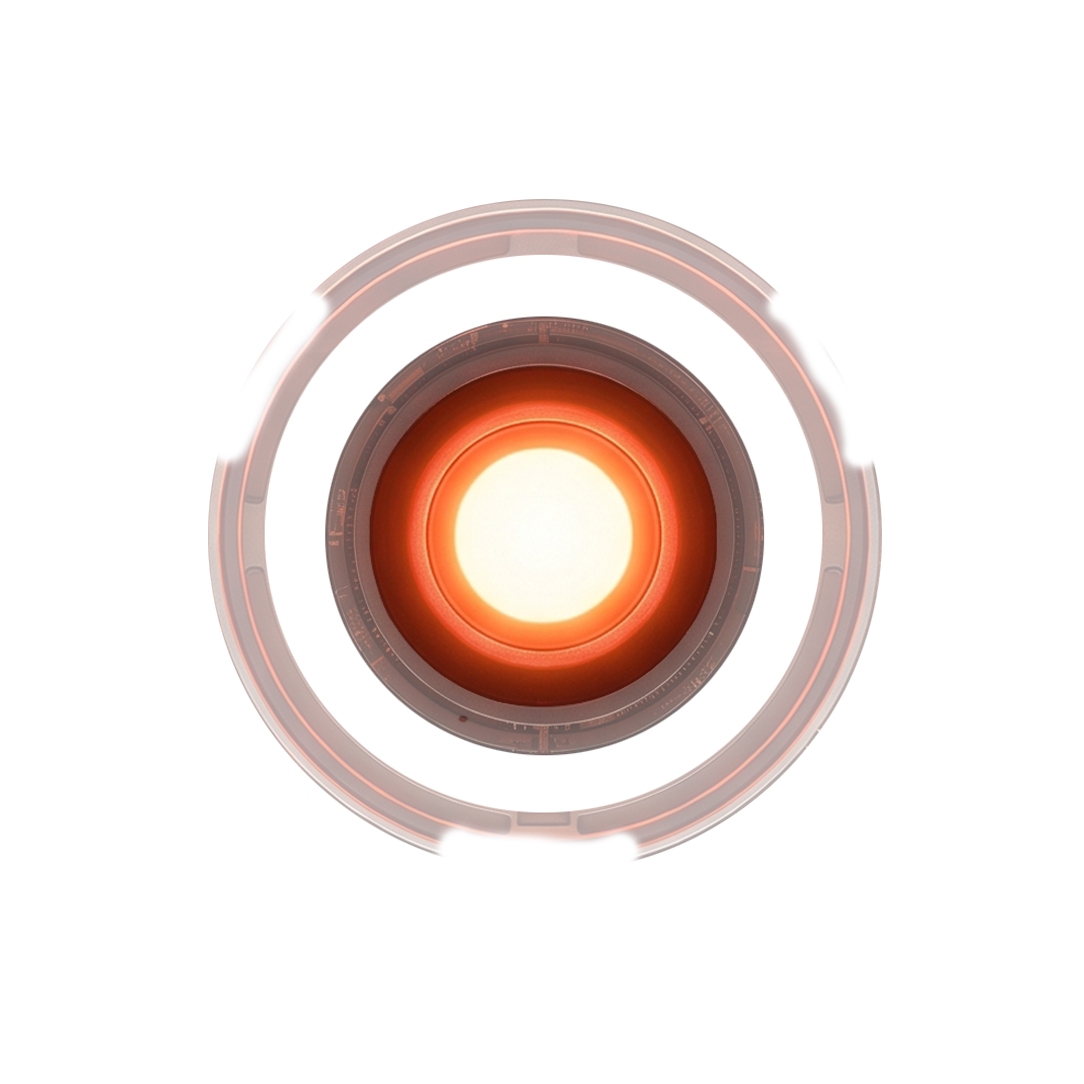
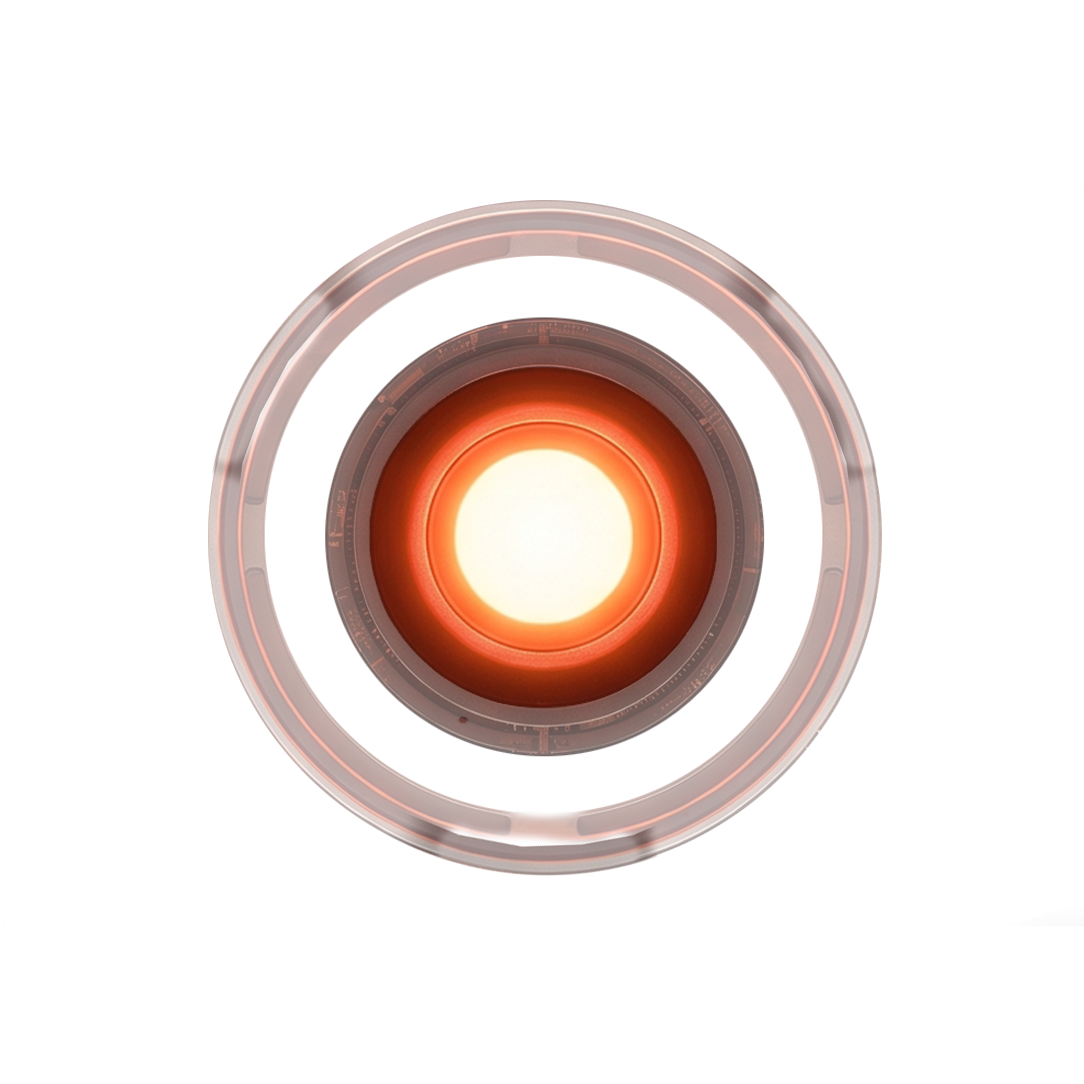
feat: calibrate 4-LED grace oscillation between 100% and 70% with updated faceplate artwork

diff --git a/frontend/dist/assets/index-C7wIaN-H.js b/frontend/dist/assets/index-C7wIaN-H.js
@@ -1,0 +1,1 @@
[1 lines of base64/hex data omitted]

diff --git a/frontend/dist/assets/index-BwKdOfyu.css b/frontend/dist/assets/index-BwKdOfyu.css
@@ -1,0 +1,1 @@
+:root{--bg-color: #000000;--text-color: #e0e0e0;--accent-red: #ff2200;--hal-core-yellow: #ffee55;--hal-glow-red: #e60000}*{box-sizing:border-box;margin:0;padding:0;-webkit-touch-callout:none;-webkit-user-select:none;user-select:none}html,body{width:100vw;height:100vh;height:100dvh;overflow:hidden;background-color:var(--bg-color);color:var(--text-color);font-family:-apple-system,BlinkMacSystemFont,SF Pro Display,Segoe UI,Roboto,Helvetica,Arial,sans-serif;position:fixed}#app{width:100%;height:100%;position:relative;display:flex;justify-content:center;align-items:center;background-color:#000}#hal-stage{width:100%;height:100%;display:flex;justify-content:center;align-items:center;position:relative;overflow:hidden;touch-action:manipulation}#hal-container{position:relative;display:flex;justify-content:center;align-items:center;width:100vw;height:100vh;transform:translateY(-146.67px)}#hal-2026-assembly{position:absolute;top:50%;left:50%;transform:translate(-50%,-50%);width:min(89.65vw,55.5vh);height:min(89.65vw,55.5vh);display:flex;justify-content:center;align-items:center;pointer-events:none}.hal2026-layer{position:absolute;top:0;left:0;width:100%;height:100%;object-fit:contain;pointer-events:none;will-change:opacity;transform:translateZ(0)}#layer-everything-off{z-index:1;opacity:1;transition:opacity .35s ease-out}#layer-3-led-on{z-index:2;opacity:0;transition:opacity .15s ease-out}#layer-3-led-on.led-anim-chuckle,#layer-3-led-on.led-anim-laugh{animation:anim-led-chuckle .7s cubic-bezier(.25,1,.5,1) forwards}#layer-3-led-on.led-anim-wink{animation:anim-led-wink .4s ease-out forwards}#layer-3-led-on.led-anim-ponder,#layer-3-led-on.led-anim-breathe{animation:anim-led-breathe 1.8s ease-in-out forwards}#layer-3-led-on.led-anim-warm{animation:anim-led-warm 2.4s ease-in-out forwards}#layer-3-led-on.led-anim-alert{animation:anim-led-alert .5s ease-out forwards}#layer-3-led-on.led-anim-heartbeat{animation:anim-led-heartbeat .9s ease-out forwards}#layer-3-led-on.led-anim-listen-done{animation:anim-led-listen-done .4s ease-out forwards}#layer-3-led-on.led-anim-search{animation:anim-led-search 1.6s ease-in-out forwards}#layer-3-led-on.led-anim-api{animation:anim-led-api .55s ease-out forwards}#layer-3-led-on.led-anim-grace{transition:none!important;animation:anim-led-grace 20s cubic-bezier(.45,.05,.55,.95) forwards}@keyframes anim-led-grace{0%{opacity:0}5%{opacity:.7}15%{opacity:1}30%{opacity:.7}45%{opacity:1}60%{opacity:.7}75%{opacity:1}90%{opacity:.7}to{opacity:0}}@keyframes anim-led-listen-done{0%{opacity:0}25%{opacity:1}45%{opacity:.15}70%{opacity:1}to{opacity:var(--persistent-led, 0)}}@keyframes anim-led-search{0%{opacity:.1}25%{opacity:.95}50%{opacity:.2}75%{opacity:.95}to{opacity:var(--persistent-led, 0)}}@keyframes anim-led-api{0%{opacity:0}15%{opacity:1}30%{opacity:.1}45%{opacity:1}60%{opacity:.1}75%{opacity:1}90%{opacity:.1}to{opacity:var(--persistent-led, 0)}}@keyframes anim-led-chuckle{0%{opacity:0}18%{opacity:1}32%{opacity:.15}50%{opacity:1}68%{opacity:.2}82%{opacity:.9}to{opacity:var(--persistent-led, 0)}}@keyframes anim-led-wink{0%{opacity:0}30%{opacity:1}70%{opacity:1}to{opacity:var(--persistent-led, 0)}}@keyframes anim-led-breathe{0%{opacity:.1}45%{opacity:1}to{opacity:var(--persistent-led, 0)}}@keyframes anim-led-warm{0%{opacity:0}15%{opacity:.5}85%{opacity:.5}to{opacity:var(--persistent-led, 0)}}@keyframes anim-led-alert{0%{opacity:0}20%{opacity:1}35%{opacity:0}55%{opacity:1}70%{opacity:0}to{opacity:var(--persistent-led, 0)}}@keyframes anim-led-heartbeat{0%{opacity:.1}22%{opacity:1}38%{opacity:.2}55%{opacity:.85}75%{opacity:.1}to{opacity:var(--persistent-led, 0)}}#layer-center-on{z-index:3;opacity:1;transition:opacity .08s ease-out}#layer-center-on.eye-waking{animation:anim-eye-wake-ignite 2.5s ease-out forwards!important}@keyframes anim-eye-wake-ignite{0%{opacity:1;filter:drop-shadow(0 0 20px rgba(255,30,0,1)) brightness(1.3)}20%{opacity:.85;filter:drop-shadow(0 0 10px rgba(255,20,0,.7)) brightness(1.1)}60%{opacity:.95;filter:drop-shadow(0 0 8px rgba(255,10,0,.6))}to{opacity:1;filter:drop-shadow(0 0 4px rgba(255,0,0,.4))}}body.state-thinking #layer-center-on:not(.eye-waking){animation:anim-eye-thinking 1.8s ease-in-out infinite}@keyframes anim-eye-thinking{0%,to{opacity:.82;filter:drop-shadow(0 0 4px rgba(255,0,0,.35))}50%{opacity:1;filter:drop-shadow(0 0 12px rgba(255,30,0,.8)) brightness(1.15)}}#layer-ring-on{z-index:4;opacity:0;transition:opacity .08s ease-out}body.mode-enclosure #hal-container,body.mode-enclosure #hal-2026-assembly,body.mode-enclosure #hal-stage{border:none!important;outline:none!important;box-shadow:none}#init-overlay{position:fixed;top:0;left:0;width:100vw;height:100vh;height:100dvh;background-color:#000000d6;-webkit-backdrop-filter:blur(12px);backdrop-filter:blur(12px);z-index:99999;display:flex;justify-content:center;align-items:center;cursor:pointer;-webkit-tap-highlight-color:transparent;transition:opacity .4s ease-out}#init-overlay.fade-out{opacity:0;pointer-events:none}.init-modal-card{position:relative;transform:translateY(-100px);display:flex;flex-direction:column;align-items:center;text-align:center;background:#0e0e12eb;border:1px solid rgba(255,34,0,.4);box-shadow:0 0 35px #ff220047,inset 0 0 20px #ff220014;border-radius:20px;padding:34px 26px;max-width:86vw;width:330px;pointer-events:auto}.init-scanner-ring{position:relative;width:60px;height:60px;margin-bottom:20px;display:flex;justify-content:center;align-items:center}.init-scanner-pulse{position:absolute;width:100%;height:100%;border-radius:50%;border:2px solid rgba(255,34,0,.75);box-shadow:0 0 16px #ff220080;animation:anim-init-pulse 2.2s cubic-bezier(.2,.8,.2,1) infinite}.init-scanner-core{width:24px;height:24px;border-radius:50%;background:radial-gradient(circle,#fe5,#f20 65%,#900);box-shadow:0 0 16px #ff2200f2}@keyframes anim-init-pulse{0%{transform:scale(.85);opacity:.9}50%{transform:scale(1.35);opacity:.2}to{transform:scale(.85);opacity:.9}}.init-text-container{transform:rotate(180deg);display:flex;flex-direction:column;align-items:center;text-align:center}.init-title{font-size:13px;font-weight:600;letter-spacing:.22em;color:#f31;text-transform:uppercase;margin-bottom:12px}.init-action{font-size:17px;font-weight:700;letter-spacing:.06em;color:#fff;text-transform:uppercase;margin-bottom:12px;animation:anim-init-glow 2s ease-in-out infinite alternate}@keyframes anim-init-glow{0%{text-shadow:0 0 6px rgba(255,255,255,.3);opacity:.92}to{text-shadow:0 0 14px rgba(255,68,34,.8),0 0 22px rgba(255,34,0,.5);opacity:1}}.init-desc{font-size:13px;font-weight:400;color:#a0a0ab;line-height:1.48;max-width:270px}body.sleep-mode{background-color:#000}body.sleep-mode #layer-everything-off{opacity:.5!important;transition:opacity .5s ease-out 3s!important}body.sleep-mode #layer-center-on{opacity:0!important;transition:opacity 3s cubic-bezier(.4,0,.2,1)!important}body.sleep-mode #layer-ring-on{opacity:0!important;transition:opacity .15s ease-out!important}body.sleep-mode #layer-3-led-on:not([class*=led-anim-]){opacity:0!important;transition:opacity .15s ease-out!important}

diff --git a/frontend/dist/index.html b/frontend/dist/index.html
@@ -24,8 +24,8 @@
   <link rel="apple-touch-icon" sizes="512x512" href="/icon-512x512.png?v=3" />
   <link rel="apple-touch-icon-precomposed" href="/apple-touch-icon-precomposed.png?v=3" />
 
-  <script type="module" crossorigin src="/assets/index-76g-K5nb.js"></script>
-  <link rel="stylesheet" crossorigin href="/assets/index-Cfd62eQf.css">
+  <script type="module" crossorigin src="/assets/index-C7wIaN-H.js"></script>
+  <link rel="stylesheet" crossorigin href="/assets/index-BwKdOfyu.css">
 </head>
 <body>
   <div id="app">
@@ -49,10 +49,10 @@
       <div id="hal-container">
         <!-- HAL 2026 3D Multi-Layer Optical Assembly -->
         <div id="hal-2026-assembly">
-          <img id="layer-everything-off" class="hal2026-layer" src="/hal2026/hal2026_everything_off.png?v=3" alt="" draggable="false" />
-          <img id="layer-3-led-on" class="hal2026-layer" src="/hal2026/hal2026_3_led_on.png" alt="" draggable="false" />
-          <img id="layer-center-on" class="hal2026-layer" src="/hal2026/hal2026_center_on.png" alt="" draggable="false" />
-          <img id="layer-ring-on" class="hal2026-layer" src="/hal2026/hal2026_ring_on.png" alt="" draggable="false" />
+          <img id="layer-everything-off" class="hal2026-layer" src="/hal2026/hal2026_everything_off.png?v=4" alt="" draggable="false" />
+          <img id="layer-3-led-on" class="hal2026-layer" src="/hal2026/hal2026_4_led_on.png?v=4" alt="" draggable="false" />
+          <img id="layer-center-on" class="hal2026-layer" src="/hal2026/hal2026_center_on.png?v=4" alt="" draggable="false" />
+          <img id="layer-ring-on" class="hal2026-layer" src="/hal2026/hal2026_ring_on.png?v=4" alt="" draggable="false" />
         </div>
       </div>
     </div>

diff --git a/frontend/index.html b/frontend/index.html
@@ -48,10 +48,10 @@
       <div id="hal-container">
         <!-- HAL 2026 3D Multi-Layer Optical Assembly -->
         <div id="hal-2026-assembly">
-          <img id="layer-everything-off" class="hal2026-layer" src="/hal2026/hal2026_everything_off.png?v=3" alt="" draggable="false" />
-          <img id="layer-3-led-on" class="hal2026-layer" src="/hal2026/hal2026_3_led_on.png" alt="" draggable="false" />
-          <img id="layer-center-on" class="hal2026-layer" src="/hal2026/hal2026_center_on.png" alt="" draggable="false" />
-          <img id="layer-ring-on" class="hal2026-layer" src="/hal2026/hal2026_ring_on.png" alt="" draggable="false" />
+          <img id="layer-everything-off" class="hal2026-layer" src="/hal2026/hal2026_everything_off.png?v=4" alt="" draggable="false" />
+          <img id="layer-3-led-on" class="hal2026-layer" src="/hal2026/hal2026_4_led_on.png?v=4" alt="" draggable="false" />
+          <img id="layer-center-on" class="hal2026-layer" src="/hal2026/hal2026_center_on.png?v=4" alt="" draggable="false" />
+          <img id="layer-ring-on" class="hal2026-layer" src="/hal2026/hal2026_ring_on.png?v=4" alt="" draggable="false" />
         </div>
       </div>
     </div>

diff --git a/frontend/src/main.js b/frontend/src/main.js
@@ -186,7 +186,7 @@ function setPersistentLed(on) {
   if (layer3LedOn && currentState !== State.SLEEPING) {
     layer3LedOn.style.opacity = on ? '1.0' : '0.0';
   }
-  log(`💡 [HAL Hardware] 3 Auxiliary LEDs ${on ? 'LOCKED ON' : 'TURNED OFF'}.`);
+  log(`💡 [HAL Hardware] 4 Auxiliary LEDs ${on ? 'LOCKED ON' : 'TURNED OFF'}.`);
 }
 
 function clearLedAnimations() {
@@ -263,14 +263,14 @@ function startGraceLeds() {
   layer3LedOn.style.setProperty('--persistent-led', '0.0');
   void layer3LedOn.offsetWidth; // Force reflow to cleanly start animation
   layer3LedOn.classList.add('led-anim-grace');
-  log('✨ [HAL Hardware] 3 Satellite LEDs pulsing (20s Follow-Up Grace Window active).');
+  log('✨ [HAL Hardware] 4 Satellite LEDs pulsing (20s Follow-Up Grace Window active).');
 
   ledAnimTimeout = setTimeout(() => {
     clearLedAnimations();
     if (layer3LedOn && currentState !== State.SLEEPING) {
       layer3LedOn.style.opacity = persistentLedOn ? '1.0' : '0.0';
     }
-    log('⏱ [HAL Hardware] 3 Satellite LEDs extinguished (Active Idle: address HAL).');
+    log('⏱ [HAL Hardware] 4 Satellite LEDs extinguished (Active Idle: address HAL).');
   }, 20000);
 }
 

diff --git a/frontend/style.css b/frontend/style.css
@@ -146,12 +146,13 @@ html, body {
 
 @keyframes anim-led-grace {
   0% { opacity: 0.0; }
-  15% { opacity: 0.30; }
-  30% { opacity: 0.20; }
-  45% { opacity: 0.30; }
-  60% { opacity: 0.20; }
-  75% { opacity: 0.30; }
-  90% { opacity: 0.20; }
+  5% { opacity: 0.70; }
+  15% { opacity: 1.0; }
+  30% { opacity: 0.70; }
+  45% { opacity: 1.0; }
+  60% { opacity: 0.70; }
+  75% { opacity: 1.0; }
+  90% { opacity: 0.70; }
   100% { opacity: 0.0; }
 }
 
